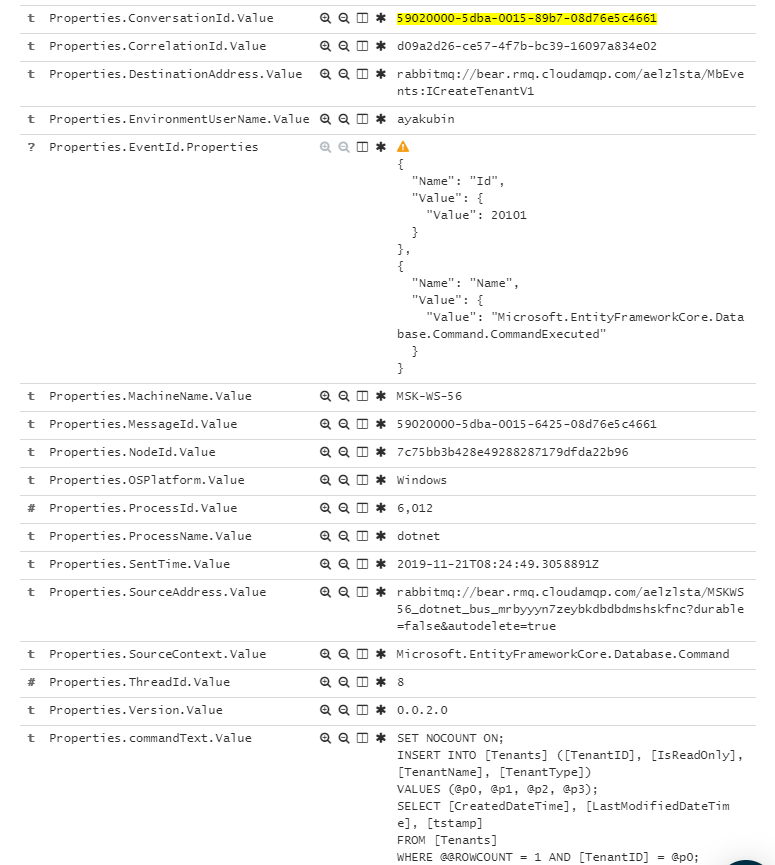
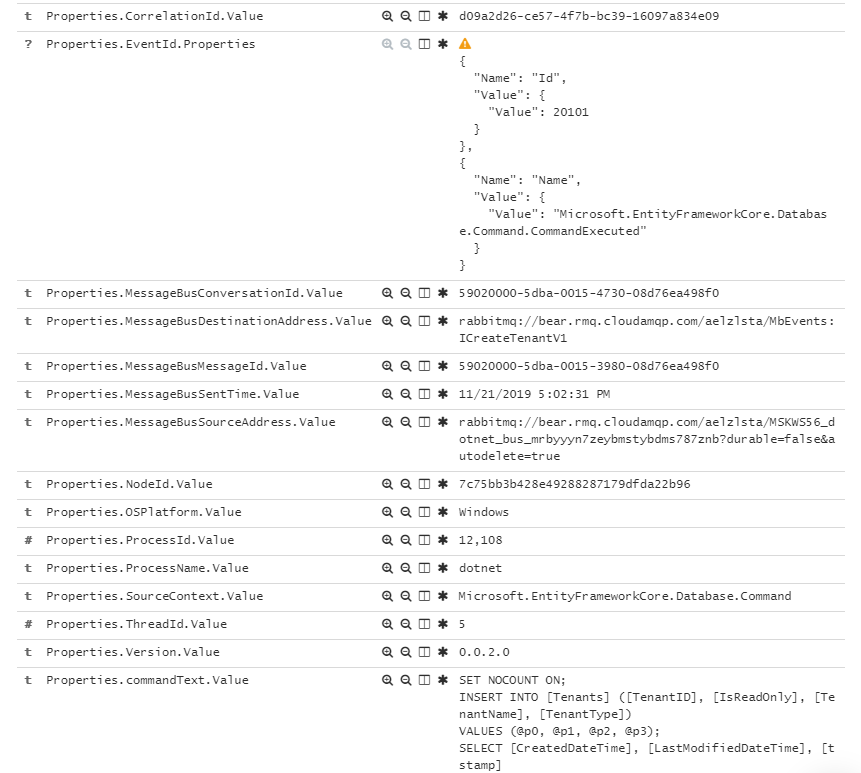
Обновленный файл о проекте

diff --git a/src/SerilogEnricher.cs b/src/SerilogEnricher.cs
@@ -1,7 +1,5 @@
 using Serilog.Core;
 using Serilog.Events;
-using System.Linq;
-using System.Reflection;
 
 namespace Serilog.Enrichers.MassTransitMessage
 {
@@ -16,13 +14,17 @@ namespace Serilog.Enrichers.MassTransitMessage
 
             if (data != null)
             {
-                foreach (PropertyInfo prop in typeof(MessageBusMessageContext).GetProperties().ToList())
-                {
-                    if (prop != null && prop.CanRead)
-                    {
-                        logEvent.AddOrUpdateProperty(factory.CreateProperty(prop.Name, prop.GetValue(data), true));
-                    }
-                }
+                logEvent.AddPropertyIfAbsent(factory.CreateProperty(nameof(data.MessageBusMessageId), data.MessageBusMessageId?.ToString(), true));
+                logEvent.AddPropertyIfAbsent(factory.CreateProperty(nameof(data.MessageBusRequestId), data.MessageBusRequestId?.ToString(), true));
+                logEvent.AddPropertyIfAbsent(factory.CreateProperty(nameof(data.CorrelationId), data.CorrelationId?.ToString(), true));
+                logEvent.AddPropertyIfAbsent(factory.CreateProperty(nameof(data.MessageBusConversationId), data.MessageBusConversationId?.ToString(), true));
+                logEvent.AddPropertyIfAbsent(factory.CreateProperty(nameof(data.MessageBusInitiatorId), data.MessageBusInitiatorId?.ToString(), true));
+                logEvent.AddPropertyIfAbsent(factory.CreateProperty(nameof(data.MessageBusSourceAddress), data.MessageBusSourceAddress?.ToString(), true));
+                logEvent.AddPropertyIfAbsent(factory.CreateProperty(nameof(data.MessageBusDestinationAddress), data.MessageBusDestinationAddress?.ToString(), true));
+                logEvent.AddPropertyIfAbsent(factory.CreateProperty(nameof(data.MessageBusResponseAddress), data.MessageBusResponseAddress?.ToString(), true));
+                logEvent.AddPropertyIfAbsent(factory.CreateProperty(nameof(data.MessageBusFaultAddress), data.MessageBusFaultAddress?.ToString(), true));
+                logEvent.AddPropertyIfAbsent(factory.CreateProperty(nameof(data.MessageBusSentTime), data.MessageBusSentTime?.ToString(), true));
+                logEvent.AddPropertyIfAbsent(factory.CreateProperty(nameof(data.MessageBusExpirationTime), data.MessageBusExpirationTime?.ToString(), true));
             }
         }
     }

diff --git a/src/SerilogEnricherData.cs b/src/SerilogEnricherData.cs
@@ -32,33 +32,29 @@ namespace Serilog.Enrichers.MassTransitMessage
         /// <summary>
         /// Extracts property data from the given <see cref="MessageContext"/>.
         /// </summary>
-        /// <param name="context"></param>
+        /// <param name="pipe"></param>
         /// <returns></returns>
         static MessageBusMessageContext FromMessageContext(PipeContext pipe)
         {
             var context = pipe?.GetPayload<MessageContext>();
 
             if (context == null)
-            {
                 return null;
-            }
             else
-            {
                 return new MessageBusMessageContext
                 {
-                    ConversationId = context.ConversationId,
+                    MessageBusConversationId = context.ConversationId,
                     CorrelationId = context.CorrelationId,
-                    DestinationAddress = context.DestinationAddress,
-                    ExpirationTime = context.ExpirationTime,
-                    FaultAddress = context.FaultAddress,
-                    InitiatorId = context.InitiatorId,
-                    MessageId = context.MessageId,
-                    RequestId = context.RequestId,
-                    ResponseAddress = context.ResponseAddress,
-                    SourceAddress = context.SourceAddress,
-                    SentTime = context.SentTime
+                    MessageBusDestinationAddress = context.DestinationAddress,
+                    MessageBusExpirationTime = context.ExpirationTime,
+                    MessageBusFaultAddress = context.FaultAddress,
+                    MessageBusInitiatorId = context.InitiatorId,
+                    MessageBusMessageId = context.MessageId,
+                    MessageBusRequestId = context.RequestId,
+                    MessageBusResponseAddress = context.ResponseAddress,
+                    MessageBusSourceAddress = context.SourceAddress,
+                    MessageBusSentTime = context.SentTime
                 };
-            } 
         }
     }
 }

diff --git a/src/MessageBusMessageContext.cs b/src/MessageBusMessageContext.cs
@@ -7,16 +7,16 @@ namespace Serilog.Enrichers.MassTransitMessage
     /// </summary>
     internal class MessageBusMessageContext
     {
-        internal Guid? MessageId { get; set; }
-        internal Guid? RequestId { get; set; }
+        internal Guid? MessageBusMessageId { get; set; }
+        internal Guid? MessageBusRequestId { get; set; }
         internal Guid? CorrelationId { get; set; }
-        internal Guid? ConversationId { get; set; }
-        internal Guid? InitiatorId { get; set; }
-        internal Uri SourceAddress { get; set; }
-        internal Uri DestinationAddress { get; set; }
-        internal Uri ResponseAddress { get; set; }
-        internal Uri FaultAddress { get; set; }
-        internal DateTime? SentTime { get; set; }
-        internal DateTime? ExpirationTime { get; set; }
+        internal Guid? MessageBusConversationId { get; set; }
+        internal Guid? MessageBusInitiatorId { get; set; }
+        internal Uri MessageBusSourceAddress { get; set; }
+        internal Uri MessageBusDestinationAddress { get; set; }
+        internal Uri MessageBusResponseAddress { get; set; }
+        internal Uri MessageBusFaultAddress { get; set; }
+        internal DateTime? MessageBusExpirationTime { get; set; }
+        internal DateTime? MessageBusSentTime { get; set; }
     }
 }

diff --git a/src/Extensions/PipeConfiguratorExtensions.cs b/src/Extensions/PipeConfiguratorExtensions.cs
@@ -14,7 +14,7 @@ namespace MassTransit
         /// </summary>
         /// <typeparam name="T"></typeparam>
         /// <param name="configurator"></param>
-        public static void UseSerilogMtMessageEnricher<T>(this IPipeConfigurator<T> configurator) where T : class, PipeContext
+        public static void UseSerilogMessagePropertiesEnricher<T>(this IPipeConfigurator<T> configurator) where T : class, PipeContext
         {
             if (configurator == null)
                 throw new ArgumentNullException(nameof(configurator));

diff --git a/src/SerilogEnricherFilter.cs b/src/SerilogEnricherFilter.cs
@@ -11,7 +11,7 @@ namespace Serilog.Enrichers.MassTransitMessage
     {
         public void Probe(ProbeContext context)
         {
-            context.CreateFilterScope("SerilogEnricher");
+            context.CreateFilterScope("SerilogMessagePropertiesEnricher");
         }
         public async Task Send(T context, IPipe<T> next)
         {

diff --git a/README.md b/README.md
@@ -1,6 +1,6 @@
 ## О проекте
 
-Сериложный обогатитель для параметризированного логирования свойств сообщений МассТранзита, может быть полезен при 
+Сериложный обогатитель для параметризированного логирования свойств сообщений МассТранзита. Пакет полезен при отладке микросервисных систем для лёгкого отслеживания активностей, источником которых послужило сообщение из шины данных.
 
 ## Использование
 
@@ -9,7 +9,7 @@
 Install-Package Serilog.Enrichers.MassTransitMessage
 ```
 
-Подключаем к Серилогу и МассТранзиту
+Подключаем к конвейерам Серилога и МассТранзита
 ```csharp
 using Serilog;
 using MassTransit;
@@ -33,7 +33,7 @@ public class Startup
 			return Bus.Factory.CreateUsingRabbitMq(cfg =>
 			{
 				cfg.UseSerilog();
-				cfg.UseSerilogMtMessageEnricher();
+				cfg.UseSerilogMessagePropertiesEnricher();
 				
 				//...
 			});
@@ -44,13 +44,62 @@ public class Startup
 }
 ```
 
-В результате получаем обогащённые события, если источником активности послужило сообщение из шины данных:
+В результате получаем события с корреляционныи идентификатором и другими параметрами, которые легко привязать к контексту всего запроса:
 
 ![alt text](https://github.com/a-postx/Serilog.Enrichers.MassTransitMessage/blob/master/result.png)
 
+## Лицензия
+[MIT](https://github.com/a-postx/Pyhh/blob/master/LICENSE)
+
 ## About the project
 
-Serilog enricher for parametrized logging of MassTransit message properties.  
+Serilog enricher for parametrized logging of MassTransit message properties.
 
-## Лицензия
+## Usage
+
+Setup
+```powershell
+Install-Package Serilog.Enrichers.MassTransitMessage
+```
+
+Insert into MassTransit and Serilog pipeline
+```csharp
+using Serilog;
+using MassTransit;
+
+public class Startup
+{
+	public IServiceProvider ConfigureServices(IServiceCollection services)
+	{
+		Log.Logger = new LoggerConfiguration()
+			.Enrich.FromMassTransitMessage()
+			.WriteTo.Console()
+			.CreateLogger();
+  
+		services.AddMassTransit(options =>
+		{
+			options.AddConsumers(GetType().Assembly);
+		});
+
+		services.AddSingleton(provider =>
+		{
+			return Bus.Factory.CreateUsingRabbitMq(cfg =>
+			{
+				cfg.UseSerilog();
+				cfg.UseSerilogMessagePropertiesEnricher();
+				
+				//...
+			});
+		});
+		
+		//...
+	}
+}
+```
+
+As a result we're getting events enriched with CorrelationId and other properties that can be easily tied to the overall request flow:
+
+![alt text](https://github.com/a-postx/Serilog.Enrichers.MassTransitMessage/blob/master/result.png)
+
+## License
 [MIT](https://github.com/a-postx/Pyhh/blob/master/LICENSE)
